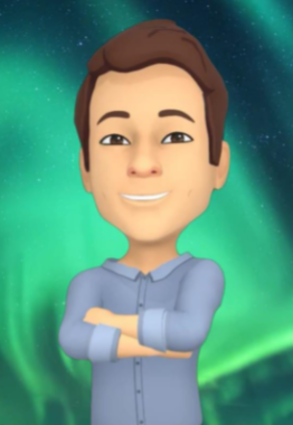
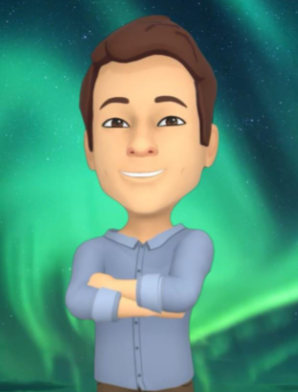
Fixed team members' images

diff --git a/index.html b/index.html
@@ -46,7 +46,7 @@
 			<div class="row">
 				<div class="column">
 				  <div class="card">
-					<img src="images/cristi.png" style="width:100%">
+					<img class="team-img" src="images/cristi.png">
 					<div class="container">
 					  <h2>Cristian Cune</h2>
 					  <p class="title">Product Owner</p>
@@ -56,7 +56,7 @@
 			  
 				<div class="column">
 				  <div class="card">
-					<img src="images/tibi.png" style="width:100%">
+					<img class="team-img" src="images/tibi.png">
 					<div class="container">
 					  <h2>Tiberiu Dumitru</h2>
 					  <p class="title">TODO</p>
@@ -66,7 +66,7 @@
 				
 				<div class="column">
 				  <div class="card">
-					<img src="images/bubu.png" style="width:100%">
+					<img class="team-img" src="images/bubu.png">
 					<div class="container">
 					  <h2>Alexandra Minea</h2>
 					  <p class="title">Project Manager</p>
@@ -76,7 +76,7 @@
 
 				<div class="column">
 				  <div class="card">
-					<img src="images/ralu.png" style="width:100%">
+					<img class="team-img" src="images/ralu.png">
 					<div class="container">
 					  <h2>Raluca Petrescu</h2>
 					  <p class="title">Front-End Developer</p>
@@ -86,7 +86,7 @@
 			  
 				<div class="column">
 				  <div class="card">
-					<img src="images/chris.png" style="width:100%">
+					<img class="team-img" src="images/chris.png">
 					<div class="container">
 					  <h2>Cristiana Vlădescu</h2>
 					  <p class="title">Back-End Developer</p>

diff --git a/css/style.css b/css/style.css
@@ -67,6 +67,7 @@ header {
   box-shadow: 0 3px 3px rgba(0, 0, 0, 0.05);
 }
 
+
 header .contact {
   float: right;
 }
@@ -276,6 +277,12 @@ html {
 
 .card {
   box-shadow: 0 4px 8px 0 rgba(0, 0, 0, 0.2);
+}
+
+.team-img {
+  height: 250px;
+  width: 100%;
+  padding: 10px;
 }
 
 .container {

diff --git a/project-description.html b/project-description.html
@@ -19,5 +19,9 @@
 			</section>
 		</div>
 	</header>
+
+	<div class="container">
+		<h1 class="page-title">PROJECT DESCRIPTION</h1>
+	</div>
 </body>
 </html>
